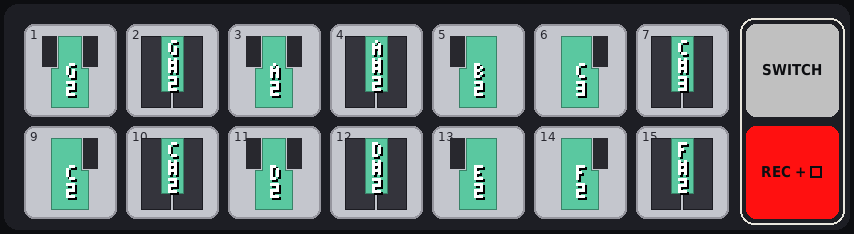
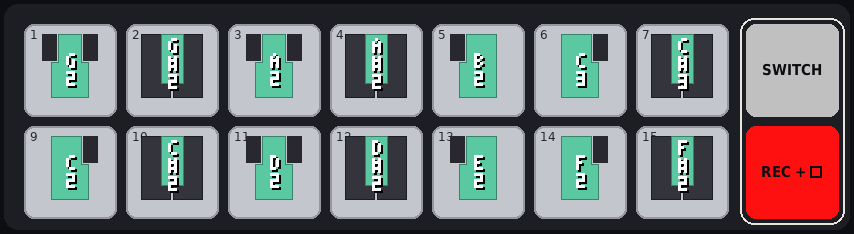
Pads as keys: offered = a grey dot at the bottom, blinking = white rays on grey
Claude-Session: https://claude.ai/code/session_01N9f4HJn3ZZ4mEGDi7YNfQW

diff --git a/docs/_FR/22-reperes-ecran-et-menus.md b/docs/_FR/22-reperes-ecran-et-menus.md
@@ -228,7 +228,7 @@ Trois niveaux de lecture. 1 — tous les modes en toutes lettres, dans les coule
 
 <p align="center"><img src="../img/pads-all-modes-short.png" width="560" alt="pads"></p>
 
-3 — chaque pad avec la touche qu’il remplace, comme le clavier à l’écran la dessine (même fonction, même couleur : rose = validé au relâché sur le clavier, menthe = agit tout de suite, violet = piste qui joue ; une touche noire entre ses deux blanches gris foncé). Le fond du pad montre la lumière de cette touche par défaut, couche tenue, en lecture, les quatre pistes qui jouent : gris clair éteinte, blanc cassé proposée, blanc vif allumée, rayons blancs clignotante (en DRUMS, une piste de batterie : grosses caisses et charley ouvert clignotent, caisses claires et charley fermé allumés) :
+3 — chaque pad avec la touche qu’il remplace, comme le clavier à l’écran la dessine (même fonction, même couleur : rose = validé au relâché sur le clavier, menthe = agit tout de suite, violet = piste qui joue ; une touche noire entre ses deux blanches gris foncé). Le fond du pad montre la lumière de cette touche par défaut, couche tenue, en lecture, les quatre pistes qui jouent : gris clair éteinte, pastille grise en bas proposée, blanc vif allumée, rayons blancs sur gris clignotante (en DRUMS, une piste de batterie : grosses caisses et charley ouvert clignotent, caisses claires et charley fermé allumés) :
 
 <p align="center"><img src="../img/pads-all-modes-keys.png" width="560" alt="pads"></p>
 

diff --git a/docs/_EN/22-screen-keyboard-and-menus.md b/docs/_EN/22-screen-keyboard-and-menus.md
@@ -228,7 +228,7 @@ Three levels. 1 — every mode in full words, in the pads’ colours:
 
 <p align="center"><img src="../img/pads-all-modes-short.png" width="560" alt="pads"></p>
 
-3 — each pad with the key it stands for, as the screen keyboard draws it (same function, same colour: pink = valid on release on the keyboard, mint = acts at once, violet = a track playing; a black key between its two white keys in dark grey). The pad’s background shows that key’s light by default, layer held, playing, the four tracks playing: light grey off, off-white offered, bright white on, white rays blinking (DRUMS, a drum track: kicks and the open hat blink, snares and the closed hat lit):
+3 — each pad with the key it stands for, as the screen keyboard draws it (same function, same colour: pink = valid on release on the keyboard, mint = acts at once, violet = a track playing; a black key between its two white keys in dark grey). The pad’s background shows that key’s light by default, layer held, playing, the four tracks playing: light grey off, a grey dot at the bottom offered, bright white on, white rays on grey blinking (DRUMS, a drum track: kicks and the open hat blink, snares and the closed hat lit):
 
 <p align="center"><img src="../img/pads-all-modes-keys.png" width="560" alt="pads"></p>
 

diff --git a/README.md b/README.md
@@ -46,7 +46,7 @@ In short:
 
 And each pad as the key it stands for, drawn as the screen keyboard draws it (pink: valid on release on the keyboard,
 mint: acts at once, violet: a track playing); the pad's background shows that key's light by default, layer held and
-playing: light grey off, off-white offered, bright white on, white rays blinking:
+playing: light grey off, a grey dot at the bottom offered, bright white on, white rays on grey blinking:
 
 <p align="center"><img src="docs/img/pads-all-modes-keys.png" width="560" alt="Each pad with the key it stands for, in the screen keyboard's colours"></p>
 
